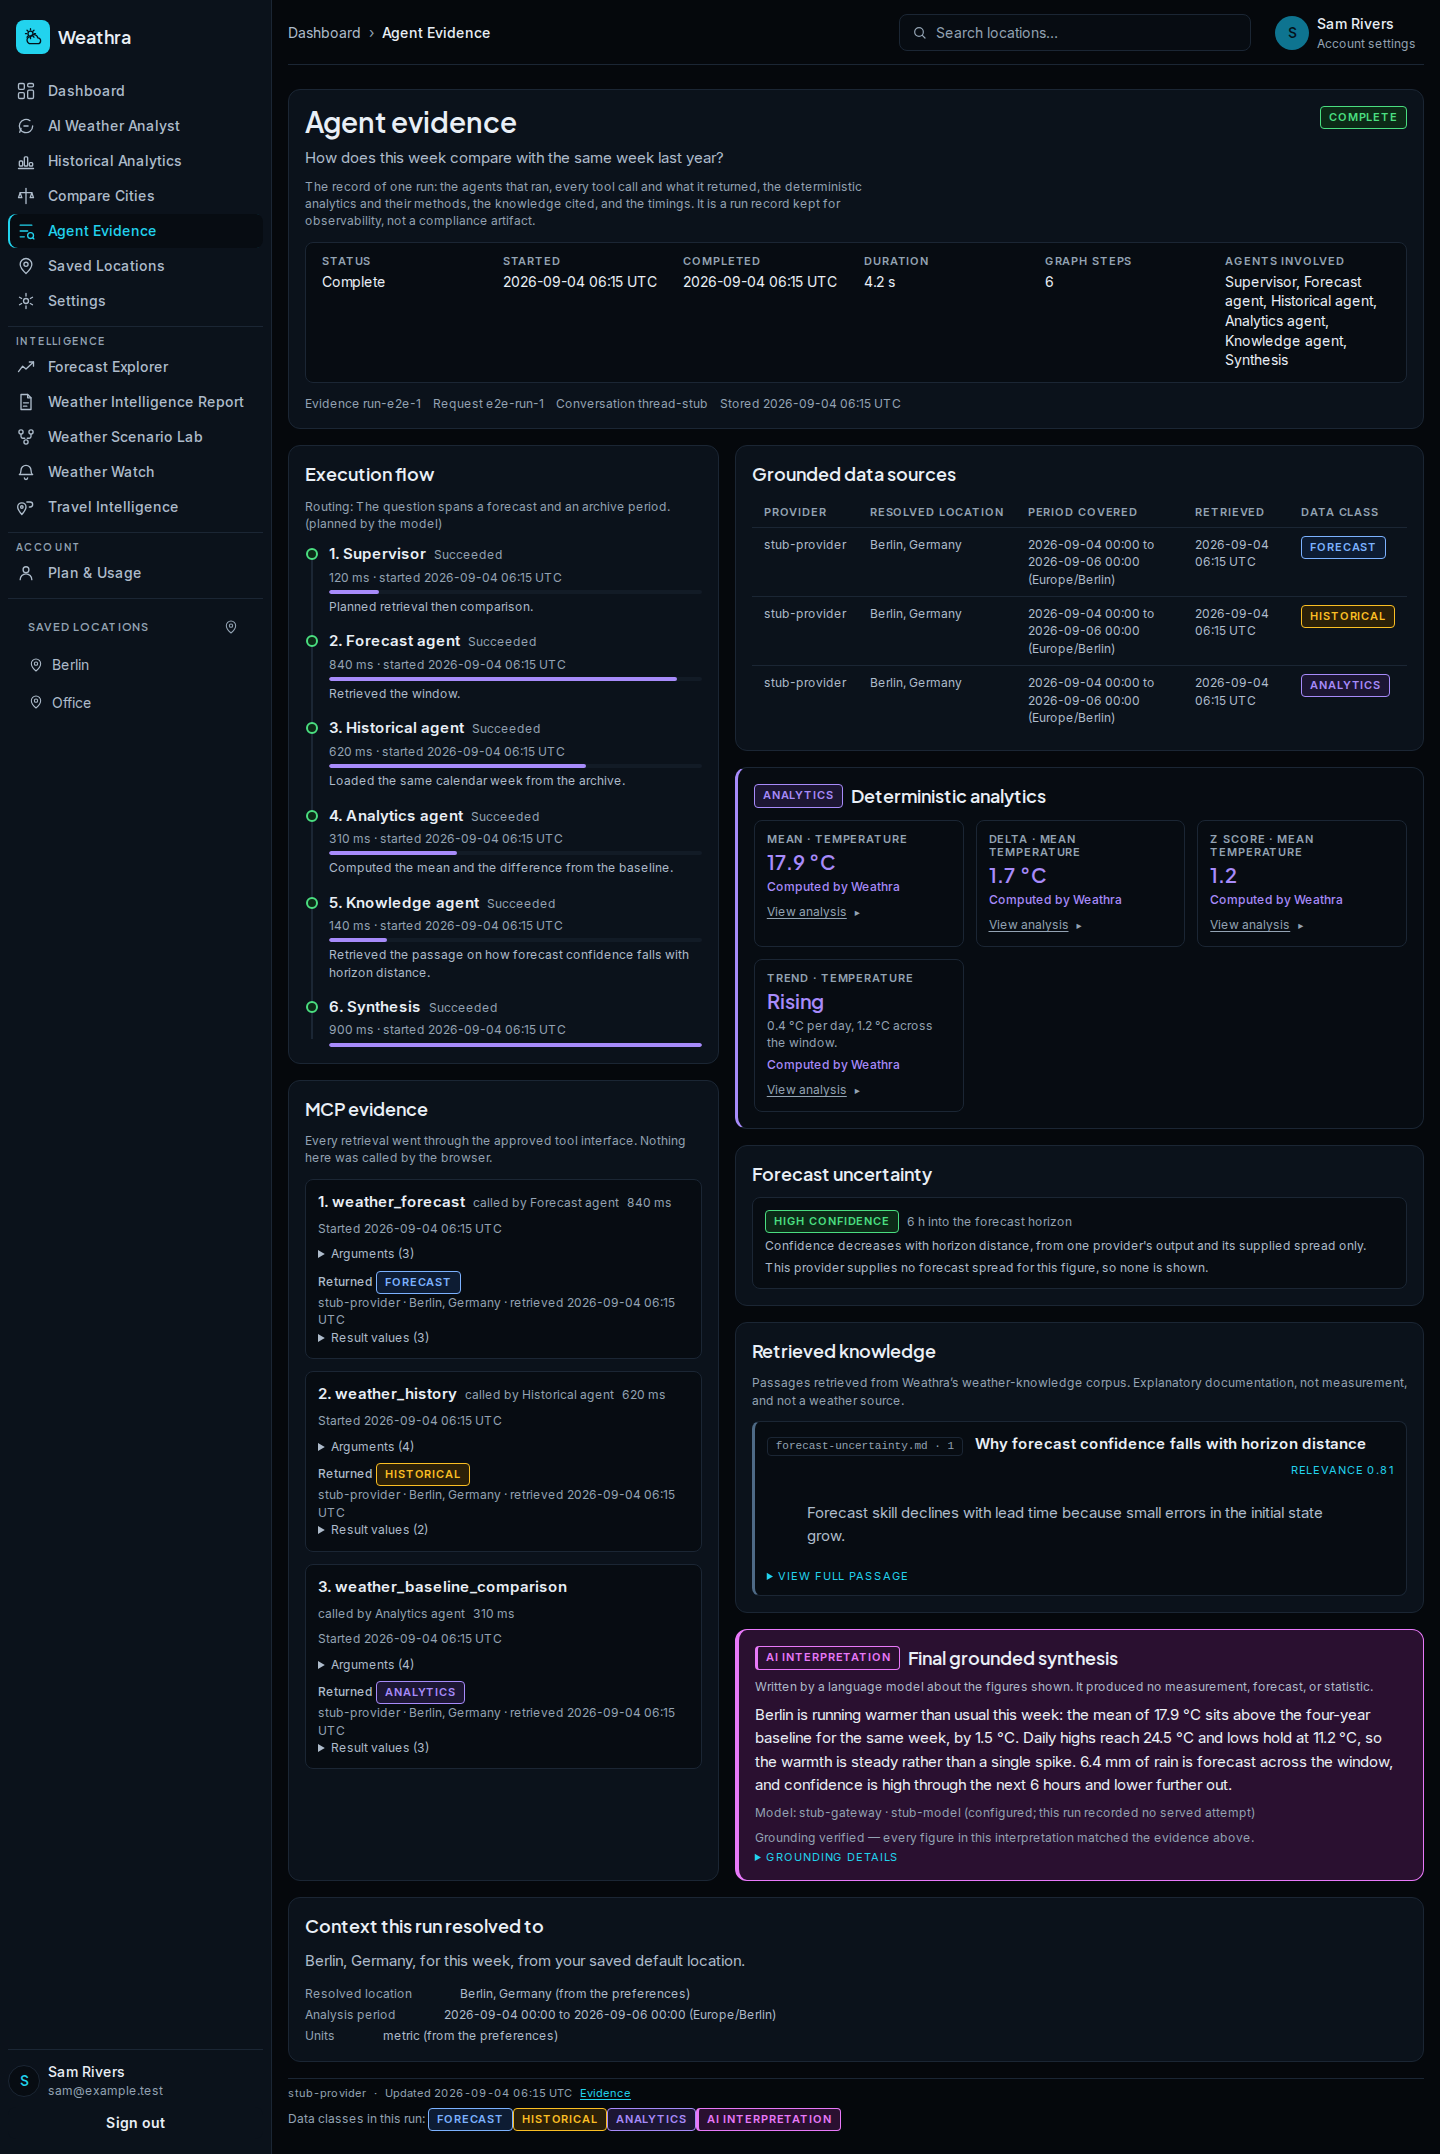
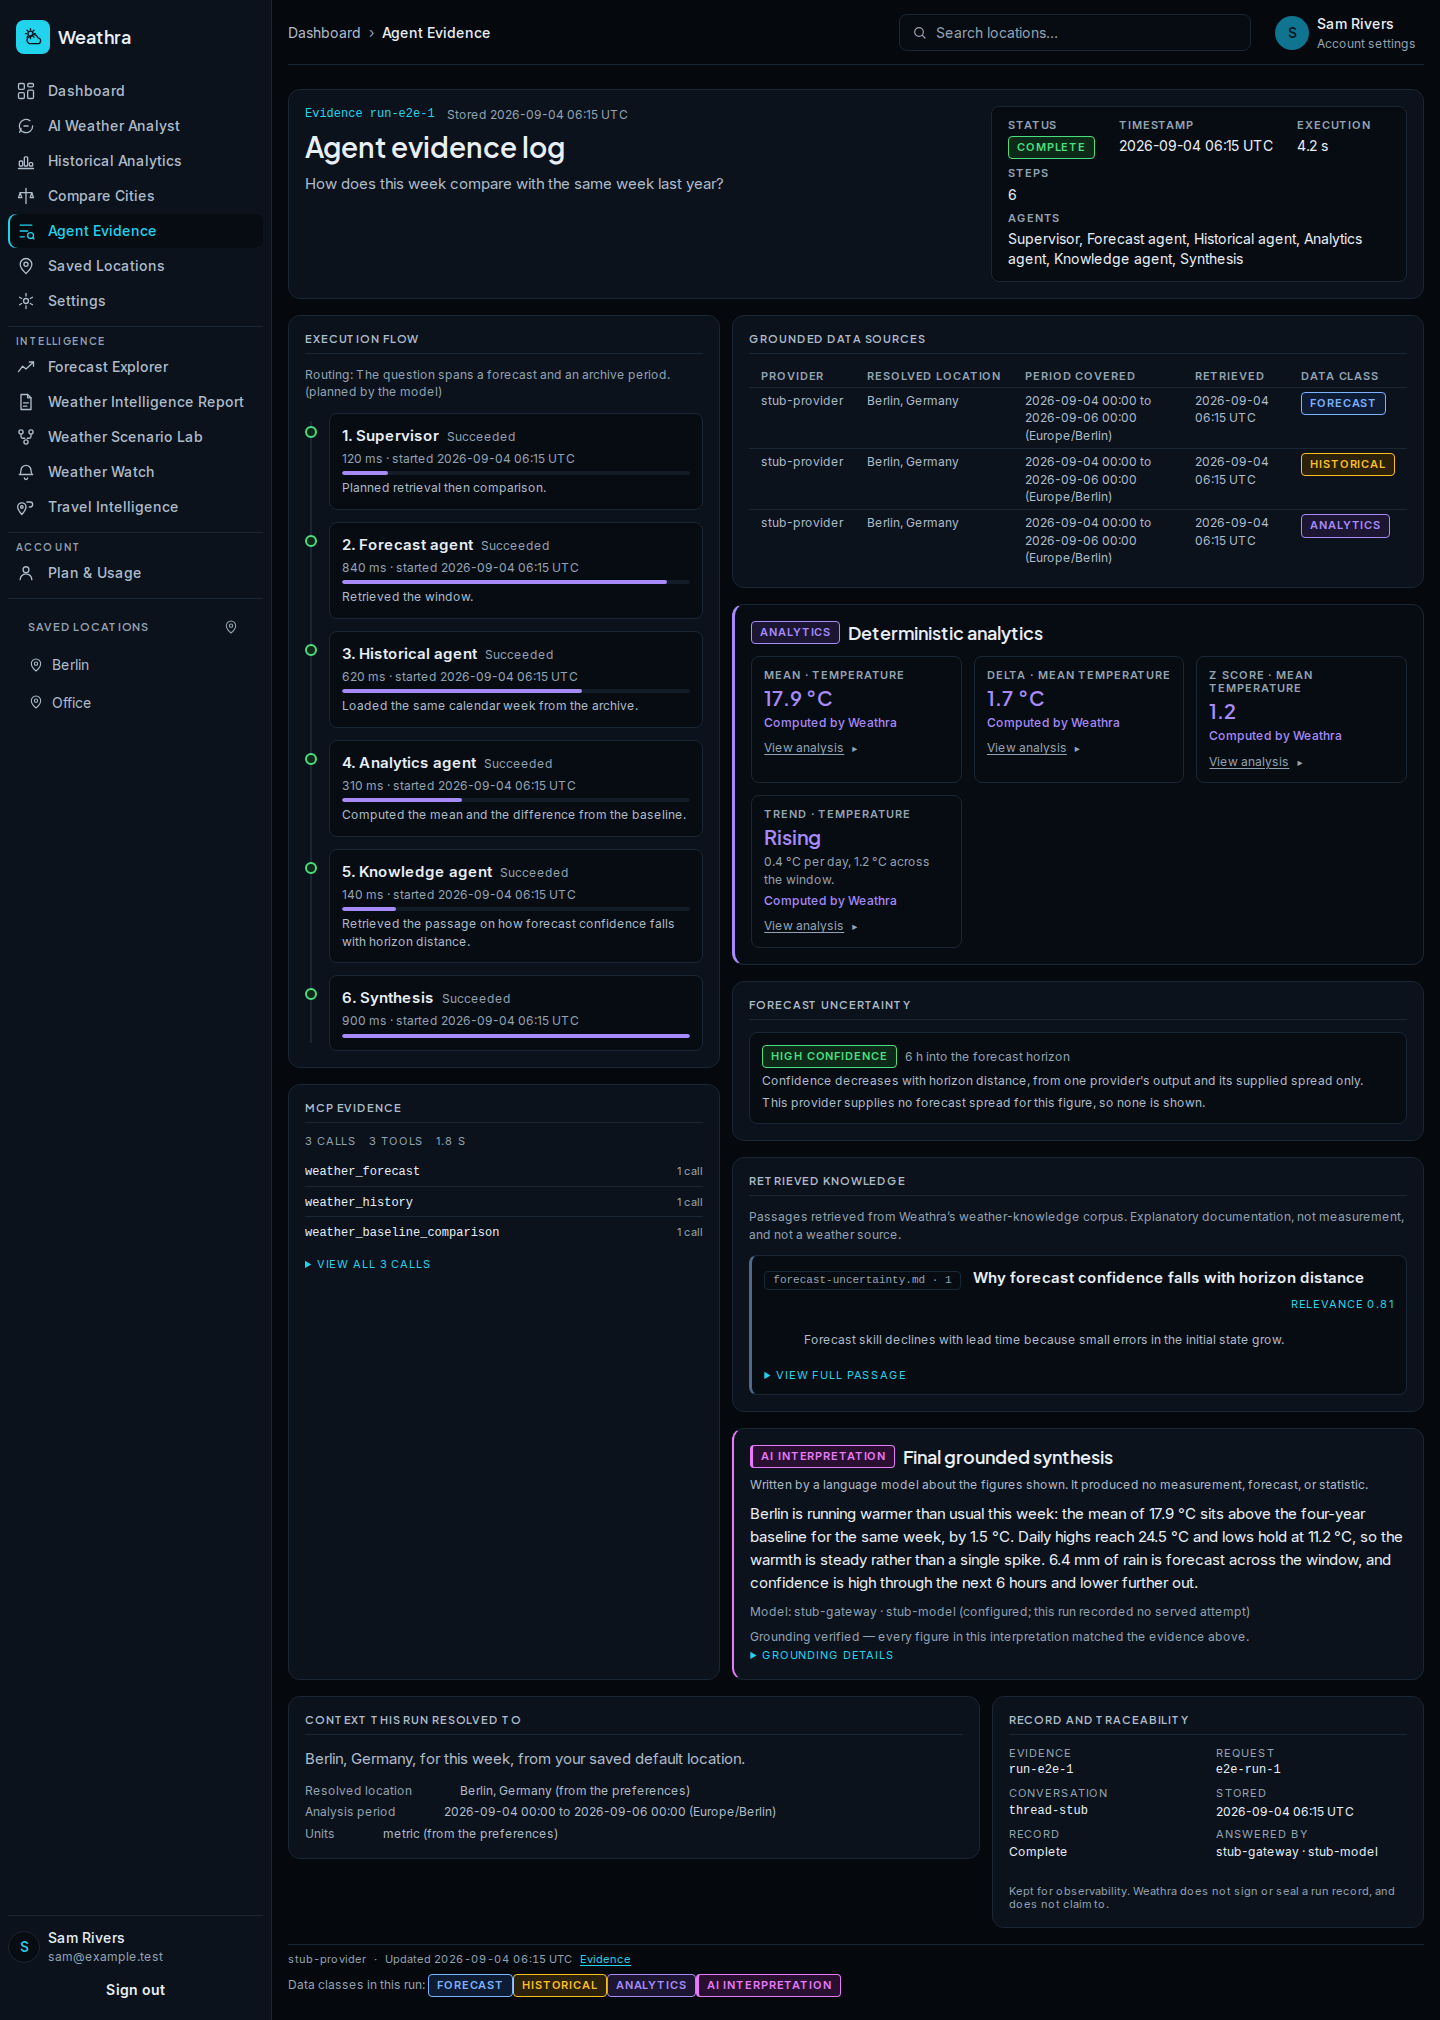
style(evidence): the precision pass — figures, tool volume, and restraint
**Stored numbers stop printing their binary tails.** `String(21.457142857142856)` is what a double
holds, and a mean of seven readings almost always looks like that — so tool arguments and results
read as machine noise rather than as figures. Two decimals, trailing zeros trimmed, integers left
alone. Deliberately wider than the one decimal a temperature is *presented* at elsewhere: this is a
stored value being echoed back, and a record should round it only as far as legibility needs.

**Tool evidence summarises, and keeps the trace.** Six calls drew six full cards and ran the left
rail to twice the height of the evidence beside it. The panel now answers the question a reader
actually has — what was used, how much, how long, whether anything failed — over a per-tool tally,
with every call still one press away under "View all N calls". Nothing left the record.

**Success is the node, not the frame.** Outlining every completed stage in green made a run where
everything worked look like a run demanding attention: six green boxes competing with the evidence
beside them. Cards go neutral and the marker carries the state. A *failed* stage keeps its border,
because that is the one nobody may miss.

**And a regression this pass introduced, caught in the capture.** The header's identity column was
`minmax(0, 1fr)` beside an `auto` status strip, so on a six-agent run the agent list claimed the
whole row and squeezed the title to one character per line. Both tracks are bounded now.
[…]

diff --git a/weathra/frontend/components/evidence/evidence.module.css b/weathra/frontend/components/evidence/evidence.module.css
@@ -998,8 +998,16 @@
 }
 
 @media (min-width: 1024px) {
+  /*
+   * Both tracks are bounded.
+   *
+   * `minmax(0, 1fr)` beside an `auto` track let the status strip — whose agent list runs long —
+   * claim the whole row and squeeze the identity column to a single character, so the title set
+   * one letter per line. The left track keeps a real minimum and the right one a real maximum, so
+   * neither can starve the other whatever the run recorded.
+   */
   .headerGrid {
-    grid-template-columns: minmax(0, 1fr) minmax(22rem, auto);
+    grid-template-columns: minmax(20rem, 1fr) minmax(18rem, 26rem);
   }
 }
 
@@ -1184,6 +1192,11 @@
   /* The agent list is the one reading that runs long, so it wraps to its own line. */
   .headerGrid .summaryItem:last-child {
     flex-basis: 100%;
+    min-width: 0;
+  }
+
+  .headerGrid .summaryItem:last-child .summaryValue {
+    overflow-wrap: anywhere;
   }
 }
 
@@ -1206,8 +1219,16 @@
   top: var(--space-3);
 }
 
-.step[data-status="succeeded"] {
-  border-color: color-mix(in srgb, var(--color-status-ok) 35%, var(--color-border-subtle));
+/*
+ * Success is the node, not the frame.
+ *
+ * Outlining every completed stage in green made a run where everything worked look like a run
+ * demanding attention — six green boxes down a rail, competing with the evidence beside them. The
+ * artifact keeps its cards neutral and puts the state on the marker. A *failed* stage still takes
+ * its border, because that is the one a reader must not miss.
+ */
+.step[data-status="failed"] {
+  border-color: color-mix(in srgb, var(--color-status-error) 45%, var(--color-border-subtle));
 }
 
 .steps {
@@ -1246,4 +1267,94 @@
   background: var(--color-surface-raised);
   border-color: var(--color-border-subtle);
   border-left: 2px solid var(--color-class-interpretation, var(--color-accent));
+}
+
+/* ------------------------------------------- tool evidence, summarised by default */
+
+.toolTotals {
+  display: flex;
+  flex-wrap: wrap;
+  gap: var(--space-1) var(--space-3);
+  margin: 0;
+  font-size: var(--type-label-size);
+  line-height: var(--type-label-line);
+  letter-spacing: var(--type-label-tracking);
+  text-transform: uppercase;
+  color: var(--color-text-muted);
+}
+
+.toolFailed {
+  color: var(--color-status-error);
+}
+
+.toolTally {
+  display: flex;
+  flex-direction: column;
+  gap: var(--space-1);
+  margin: 0;
+  padding: 0;
+  list-style: none;
+}
+
+.toolTallyRow {
+  display: flex;
+  align-items: baseline;
+  justify-content: space-between;
+  gap: var(--space-3);
+  padding: var(--space-1) 0;
+  border-bottom: 1px solid var(--color-border-subtle);
+  min-width: 0;
+}
+
+.toolTallyRow:last-child {
+  border-bottom: none;
+}
+
+.toolTallyName {
+  font-family: var(--family-mono, monospace);
+  font-size: var(--type-meta-size);
+  line-height: var(--type-meta-line);
+  color: var(--color-text-primary);
+  overflow: hidden;
+  text-overflow: ellipsis;
+  white-space: nowrap;
+  min-width: 0;
+}
+
+.toolTallyCount {
+  font-size: var(--type-label-size);
+  line-height: var(--type-label-line);
+  color: var(--color-text-muted);
+  white-space: nowrap;
+}
+
+.toolDetail summary {
+  cursor: pointer;
+  font-size: var(--type-label-size);
+  line-height: var(--type-label-line);
+  letter-spacing: var(--type-label-tracking);
+  text-transform: uppercase;
+  color: var(--color-accent);
+}
+
+.toolDetail[open] .tools {
+  margin-top: var(--space-3);
+}
+
+/* ------------------------------------------------ identifiers that do not shout */
+
+/*
+ * A UUID is a handle, not a headline. Monospace at metadata size keeps it copyable and legible
+ * without letting thirty-six characters dominate the card that closes the page.
+ */
+.auditMono {
+  font-size: var(--type-label-size);
+  line-height: var(--type-label-line);
+  color: var(--color-text-secondary);
+}
+
+/* The source table sits tighter, and its date cells stop wrapping mid-range. */
+.table th,
+.table td {
+  padding: var(--space-1) var(--space-3);
 }

diff --git a/weathra/frontend/components/evidence/sections.tsx b/weathra/frontend/components/evidence/sections.tsx
@@ -367,6 +367,76 @@ function ToolEntry({ activity }: { readonly activity: ToolActivity }): ReactNode
  * figure are mockup filler; what replaces them is the calls themselves, which is the thing that
  * makes a figure in the answer traceable to a retrieval.
  */
+/**
+ * What the run called, summarised — with the calls themselves one press away.
+ *
+ * A run that asked the archive twice and the analytics kernel four times drew six full cards, each
+ * with its own arguments and results disclosures, and the left rail ran to twice the height of the
+ * evidence beside it. The artifact's own MCP block is a *small supporting card*: what was used, how
+ * much, and how it went.
+ *
+ * Nothing is hidden from the record — the complete trace is still here, and a person auditing a run
+ * opens it. What changes is that the default screen answers "which tools did this use" instead of
+ * making a reader assemble that answer from six cards.
+ */
+function ToolSummary({ tools }: { readonly tools: readonly ToolActivity[] }): ReactNode {
+  const byTool = new Map<string, { calls: number; failed: number; totalMs: number }>();
+  for (const activity of tools) {
+    const seen = byTool.get(activity.tool) ?? { calls: 0, failed: 0, totalMs: 0 };
+    seen.calls += 1;
+    if (activity.result?.ok === false) seen.failed += 1;
+    if (typeof activity.durationMs === "number") seen.totalMs += activity.durationMs;
+    byTool.set(activity.tool, seen);
+  }
+
+  const failures = tools.filter((activity) => activity.result?.ok === false).length;
+  const total = tools.reduce(
+    (sum, activity) => sum + (typeof activity.durationMs === "number" ? activity.durationMs : 0),
+    0,
+  );
+
+  return (
+    <>
+      <p className={styles.toolTotals}>
+        <span>
+          {tools.length} {tools.length === 1 ? "call" : "calls"}
+        </span>
+        <span>
+          {byTool.size} {byTool.size === 1 ? "tool" : "tools"}
+        </span>
+        {total > 0 ? <span>{formatDurationMs(total)}</span> : null}
+        {failures > 0 ? (
+          <span className={styles.toolFailed}>
+            {failures} failed
+          </span>
+        ) : null}
+      </p>
+
+      <ul className={styles.toolTally}>
+        {[...byTool.entries()].map(([tool, seen]) => (
+          <li className={styles.toolTallyRow} key={tool}>
+            <span className={styles.toolTallyName}>{tool}</span>
+            <span className={styles.toolTallyCount}>
+              {seen.calls} {seen.calls === 1 ? "call" : "calls"}
+            </span>
+          </li>
+        ))}
+      </ul>
+
+      <details className={styles.toolDetail}>
+        <summary>
+          View all {tools.length} {tools.length === 1 ? "call" : "calls"}
+        </summary>
+        <ol className={styles.tools} data-tool-calls="true">
+          {tools.map((activity) => (
+            <ToolEntry key={activity.key} activity={activity} />
+          ))}
+        </ol>
+      </details>
+    </>
+  );
+}
+
 export function ToolActivityPanel({ record }: { readonly record: RunRecord }): ReactNode {
   return (
     <section
@@ -387,21 +457,10 @@ export function ToolActivityPanel({ record }: { readonly record: RunRecord }): R
         <h2 className={styles.panelTitle}>MCP evidence</h2>
       </header>
 
-      {record.tools.length === 0 ? null : (
-        <p className={styles.note}>
-          Every retrieval went through the approved tool interface. Nothing here was called by the
-          browser.
-        </p>
-      )}
-
       {record.tools.length === 0 ? (
         <p className={styles.emptyNote}>No tool calls — this run retrieved nothing through a tool.</p>
       ) : (
-        <ol className={styles.tools} data-tool-calls="true">
-          {record.tools.map((activity) => (
-            <ToolEntry key={activity.key} activity={activity} />
-          ))}
-        </ol>
+        <ToolSummary tools={record.tools} />
       )}
     </section>
   );

diff --git a/weathra/frontend/components/evidence/evidence.test.tsx b/weathra/frontend/components/evidence/evidence.test.tsx
@@ -425,6 +425,21 @@ afterEach(() => {
 
 /* ----------------------------------------------------------------------- tests */
 
+/**
+ * The tool calls themselves, which are behind a disclosure.
+ *
+ * The panel summarises by default — what was used and how much — because six full cards ran the
+ * left rail to twice the height of the evidence beside it. The complete trace is still the record,
+ * and these tests still assert against it; they open it first, as an auditor would.
+ */
+function toolCalls(): HTMLElement[] {
+  const panel = screen.getByRole("region", { name: "MCP evidence" });
+  const trace = panel.querySelector("details");
+  if (trace && !trace.open) trace.open = true;
+  const list = panel.querySelector('[data-tool-calls="true"]');
+  return list ? Array.from(list.querySelectorAll(":scope > li")) : [];
+}
+
 describe("a populated evidence record", () => {
   it("asks the documented evidence endpoint for exactly the identifier it was given", async () => {
     renderScreen();
@@ -510,9 +525,9 @@ describe("the tool calls and their results", () => {
   it("lists each call with the agent that made it, its arguments and what came back", async () => {
     const person = userEvent.setup();
     renderScreen();
-    const tools = await screen.findByRole("region", { name: "MCP evidence" });
+    await screen.findByRole("region", { name: "MCP evidence" });
 
-    const calls = within(tools).getAllByRole("listitem");
+    const calls = toolCalls();
     expect(calls).toHaveLength(3);
 
     const forecast = at(calls, 0);
@@ -542,9 +557,9 @@ describe("the tool calls and their results", () => {
 
   it("reports a failed tool call as a failure, with the backend's code and message", async () => {
     renderScreen();
-    const tools = await screen.findByRole("region", { name: "MCP evidence" });
+    await screen.findByRole("region", { name: "MCP evidence" });
 
-    const failed = at(within(tools).getAllByRole("listitem"), 1);
+    const failed = at(toolCalls(), 1);
     expect(failed).toHaveAttribute("data-tool", "weather_history");
     const outcome = failed.querySelector('[data-tool-result="failed"]');
     expect(outcome).toHaveTextContent("provider_timeout");
@@ -656,11 +671,10 @@ describe("the timings", () => {
   it("reports each agent's and each tool call's own duration", async () => {
     renderScreen();
     const flow = await screen.findByRole("region", { name: "Execution flow" });
-    const tools = screen.getByRole("region", { name: "MCP evidence" });
 
     expect(at(within(flow).getAllByRole("listitem"), 0)).toHaveTextContent("120 ms");
     expect(at(within(flow).getAllByRole("listitem"), 5)).toHaveTextContent("1.2 s");
-    expect(at(within(tools).getAllByRole("listitem"), 2)).toHaveTextContent("610 ms");
+    expect(at(toolCalls(), 2)).toHaveTextContent("610 ms");
   });
 });
 
@@ -878,7 +892,7 @@ describe("nothing on the screen came from anywhere but the record", () => {
 
     expect(within(flow).getAllByRole("listitem")).toHaveLength(STORED_EVIDENCE.agents.length);
     expect(
-      within(screen.getByRole("region", { name: "MCP evidence" })).getAllByRole("listitem"),
+      toolCalls(),
     ).toHaveLength(STORED_EVIDENCE.tool_calls.length);
     expect(
       within(screen.getByRole("region", { name: "Grounded data sources" })).getAllByRole("row"),

diff --git a/weathra/frontend/lib/evidence/record.ts b/weathra/frontend/lib/evidence/record.ts
@@ -91,7 +91,25 @@ export function describeStoredValue(value: unknown): string {
     const fields = Object.keys(value).length;
     return fields === 1 ? "1 field" : `${fields} fields`;
   }
+  if (typeof value === "number") return roundedFigure(value);
   return String(value);
+}
+
+/**
+ * A stored number without its binary-representation tail.
+ *
+ * `String(21.457142857142856)` prints every digit the double holds, and a mean of seven readings
+ * almost always has a tail like that — so tool arguments and results came out reading as machine
+ * noise rather than as figures. Two decimals is the widest any evidence value here needs and is
+ * kept deliberately *wider* than the one decimal a temperature is shown at elsewhere: this is a
+ * stored value being echoed back, not a reading being presented, and the record should round it as
+ * little as legibility requires. Trailing zeros are trimmed, and an integer stays an integer.
+ */
+function roundedFigure(value: number): string {
+  if (!Number.isFinite(value)) return String(value);
+  if (Number.isInteger(value)) return String(value);
+  const rounded = Math.round(value * 100) / 100;
+  return Number.isInteger(rounded) ? String(rounded) : String(rounded);
 }
 
 /** A stored dictionary as named lines, in the order it was stored. */
